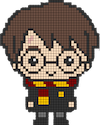
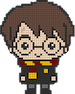
replaced bomb, apple, strawberry, & player with harry potter characters

diff --git a/game.py b/game.py
@@ -28,9 +28,9 @@ class GameObject(pygame.sprite.Sprite):
         self.rect.y = self.y
         screen.blit(self.surf, (self.x, self.y))
 
-class Apple(GameObject):
+class Ron(GameObject):
     def __init__(self):
-        super(Apple, self).__init__(0, 0, './images/apple.png')
+        super(Ron, self).__init__(0, 0, './images/ron.png')
         self.dx = 0
         self.dy = (randint(0, 200) / 100) + 1
         self.reset()
@@ -45,9 +45,9 @@ class Apple(GameObject):
         self.x = choice(lanes)
         self.y = -64
 
-class Strawberry(GameObject):
+class Hermione(GameObject):
     def __init__(self):
-        super(Strawberry, self).__init__(0, 0, './images/strawberry.png')
+        super(Hermione, self).__init__(0, 0, './images/hermione.png')
         self.dx = (randint(0, 200) / 100) + 1
         self.dy = 0
         self.reset()
@@ -62,9 +62,9 @@ class Strawberry(GameObject):
         self.x = -64
         self.y = choice(lanes)
 
-class Bomb(GameObject):
+class Voldemort(GameObject):
     def __init__(self):
-        super(Bomb, self).__init__(0, 0, './images/bomb.png')
+        super(Voldemort, self).__init__(0, 0, './images/voldemort.png')
         self.reset()
 
     def move(self):
@@ -102,7 +102,7 @@ class Bomb(GameObject):
 
 class Player(GameObject):
     def __init__(self):
-        super(Player, self).__init__(0, 0, './images/player.png')  
+        super(Player, self).__init__(0, 0, './images/harry.png')  
         self.dx = 0 
         self.dy = 0
         self.pos_x = 1 
@@ -143,20 +143,20 @@ class Player(GameObject):
         self.dx = lanes[self.pos_x]
         self.dy = lanes[self.pos_y]
 
-apple = Apple()
-strawberry = Strawberry()
-player = Player()
-bomb = Bomb()
+ron = Ron()
+hermione = Hermione()
+player = Player() # this is now harry potter
+voldemort = Voldemort()
 
 all_sprites = pygame.sprite.Group()
 all_sprites.add(player)
-all_sprites.add(apple)
-all_sprites.add(strawberry)
-all_sprites.add(bomb)
+all_sprites.add(ron)
+all_sprites.add(hermione)
+all_sprites.add(voldemort)
 
 fruit_sprites = pygame.sprite.Group()
-fruit_sprites.add(apple)
-fruit_sprites.add(strawberry)  
+fruit_sprites.add(ron)
+fruit_sprites.add(hermione)  
 
 running = True
 while running:
@@ -187,7 +187,7 @@ while running:
     if fruit:
         fruit.reset()
 
-    if pygame.sprite.collide_rect(player, bomb):
+    if pygame.sprite.collide_rect(player, voldemort):
         running = False
 
     pygame.display.flip()
